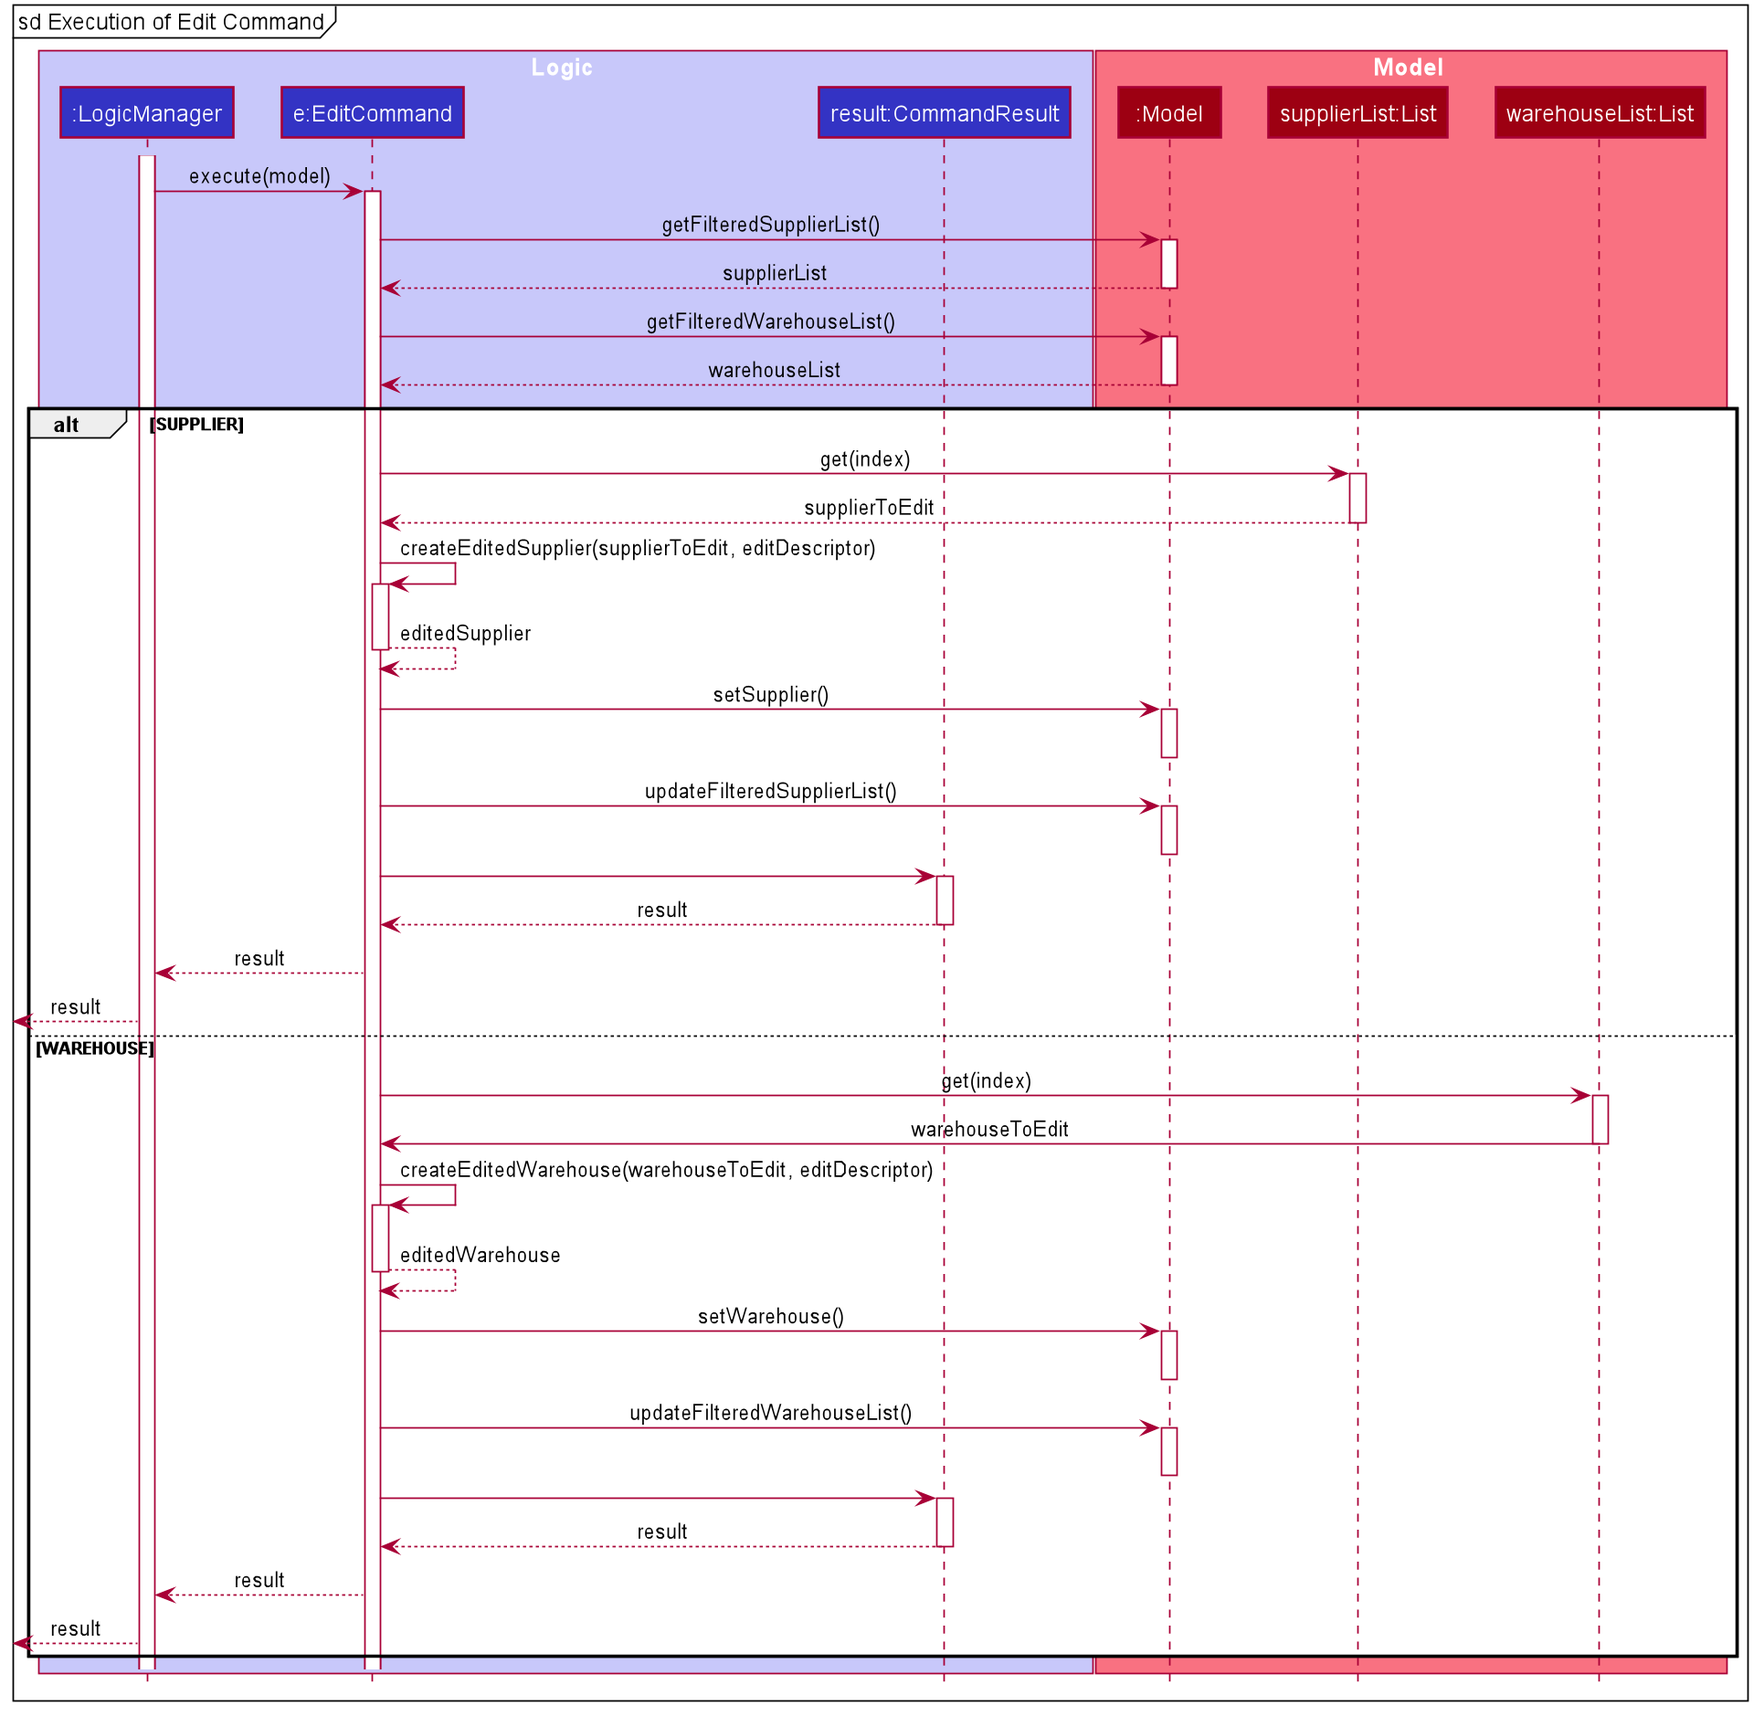
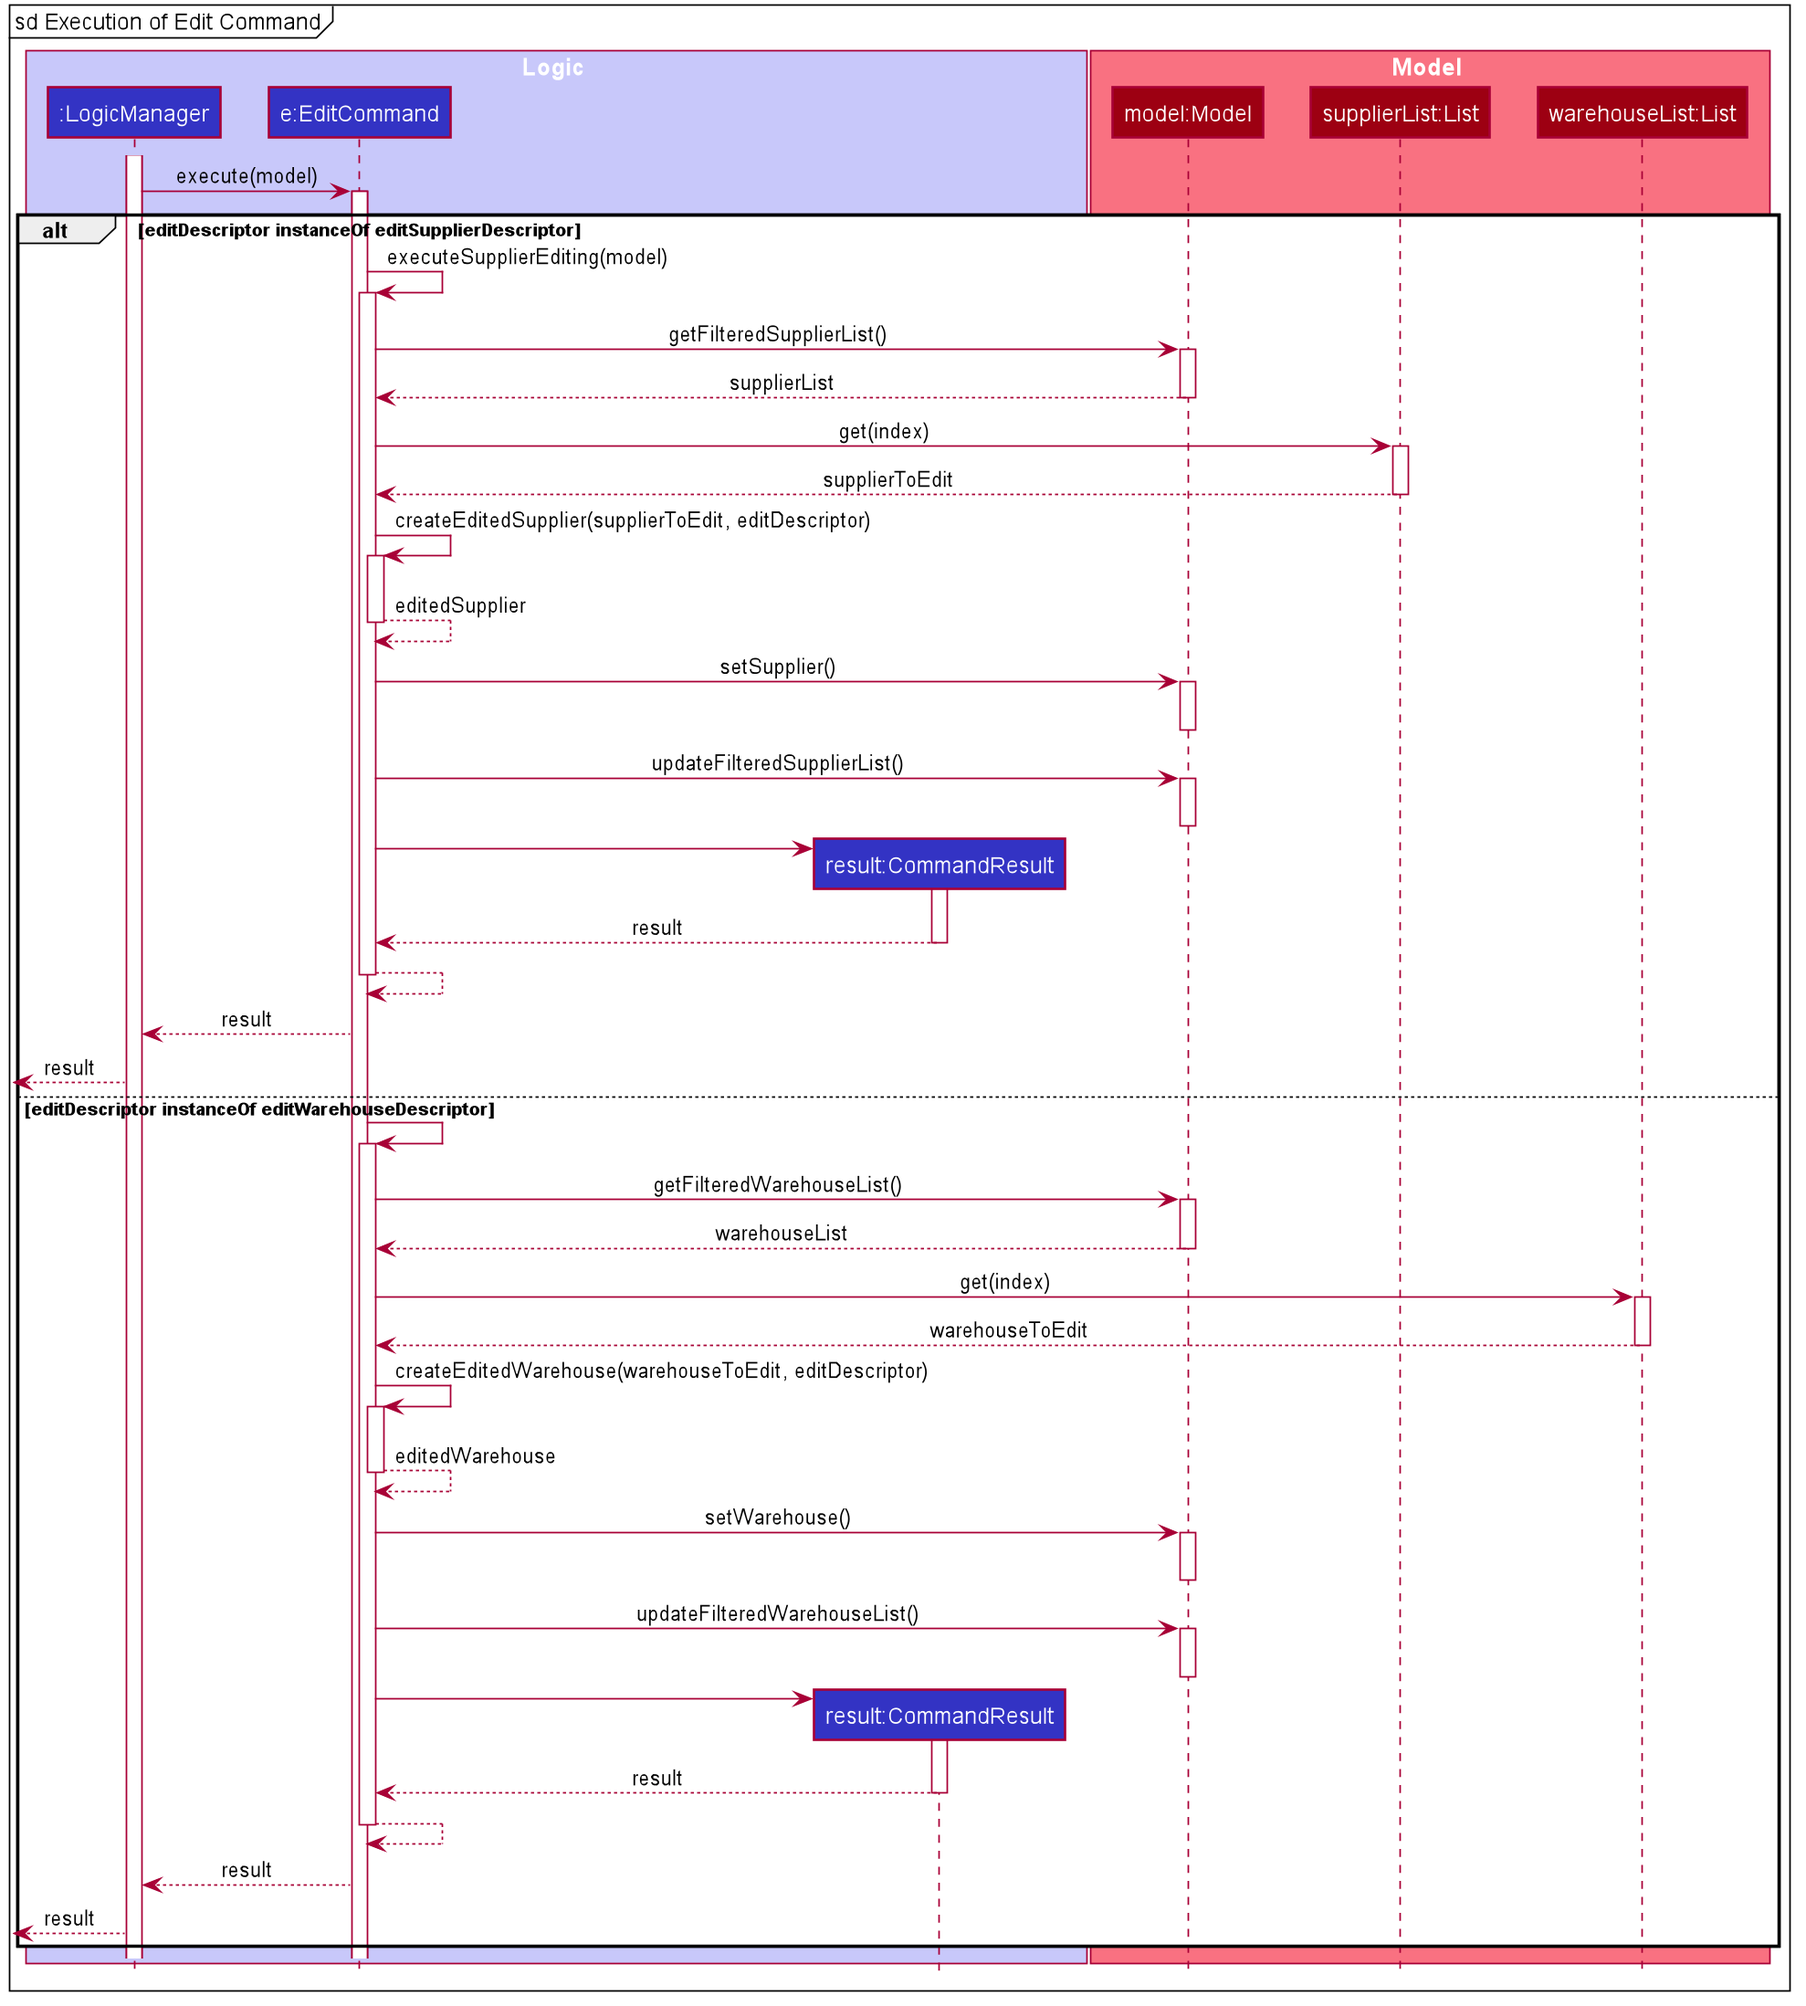
Update execution diagrams

diff --git a/src/main/java/seedu/clinic/logic/commands/EditCommand.java b/src/main/java/seedu/clinic/logic/commands/EditCommand.java
@@ -132,6 +132,8 @@ public class EditCommand extends Command {
         if (this.editDescriptor instanceof EditSupplierDescriptor) {
             return executeSupplierEditing(model);
         } else {
+            assert this.editDescriptor instanceof EditWarehouseDescriptor
+                    : INVALID_EDIT_WAREHOUSE_DESCRIPTOR_ASSERTION;
             return executeWarehouseEditing(model);
         }
     }
@@ -174,7 +176,6 @@ public class EditCommand extends Command {
 
     private CommandResult executeWarehouseEditing(Model model) throws CommandException {
         List<Warehouse> lastShownWarehouseList = model.getFilteredWarehouseList();
-        assert this.editDescriptor instanceof EditWarehouseDescriptor : INVALID_EDIT_WAREHOUSE_DESCRIPTOR_ASSERTION;
 
         if (index.getZeroBased() >= lastShownWarehouseList.size()) {
             throw new CommandException(Messages.MESSAGE_INVALID_WAREHOUSE_DISPLAYED_INDEX);
